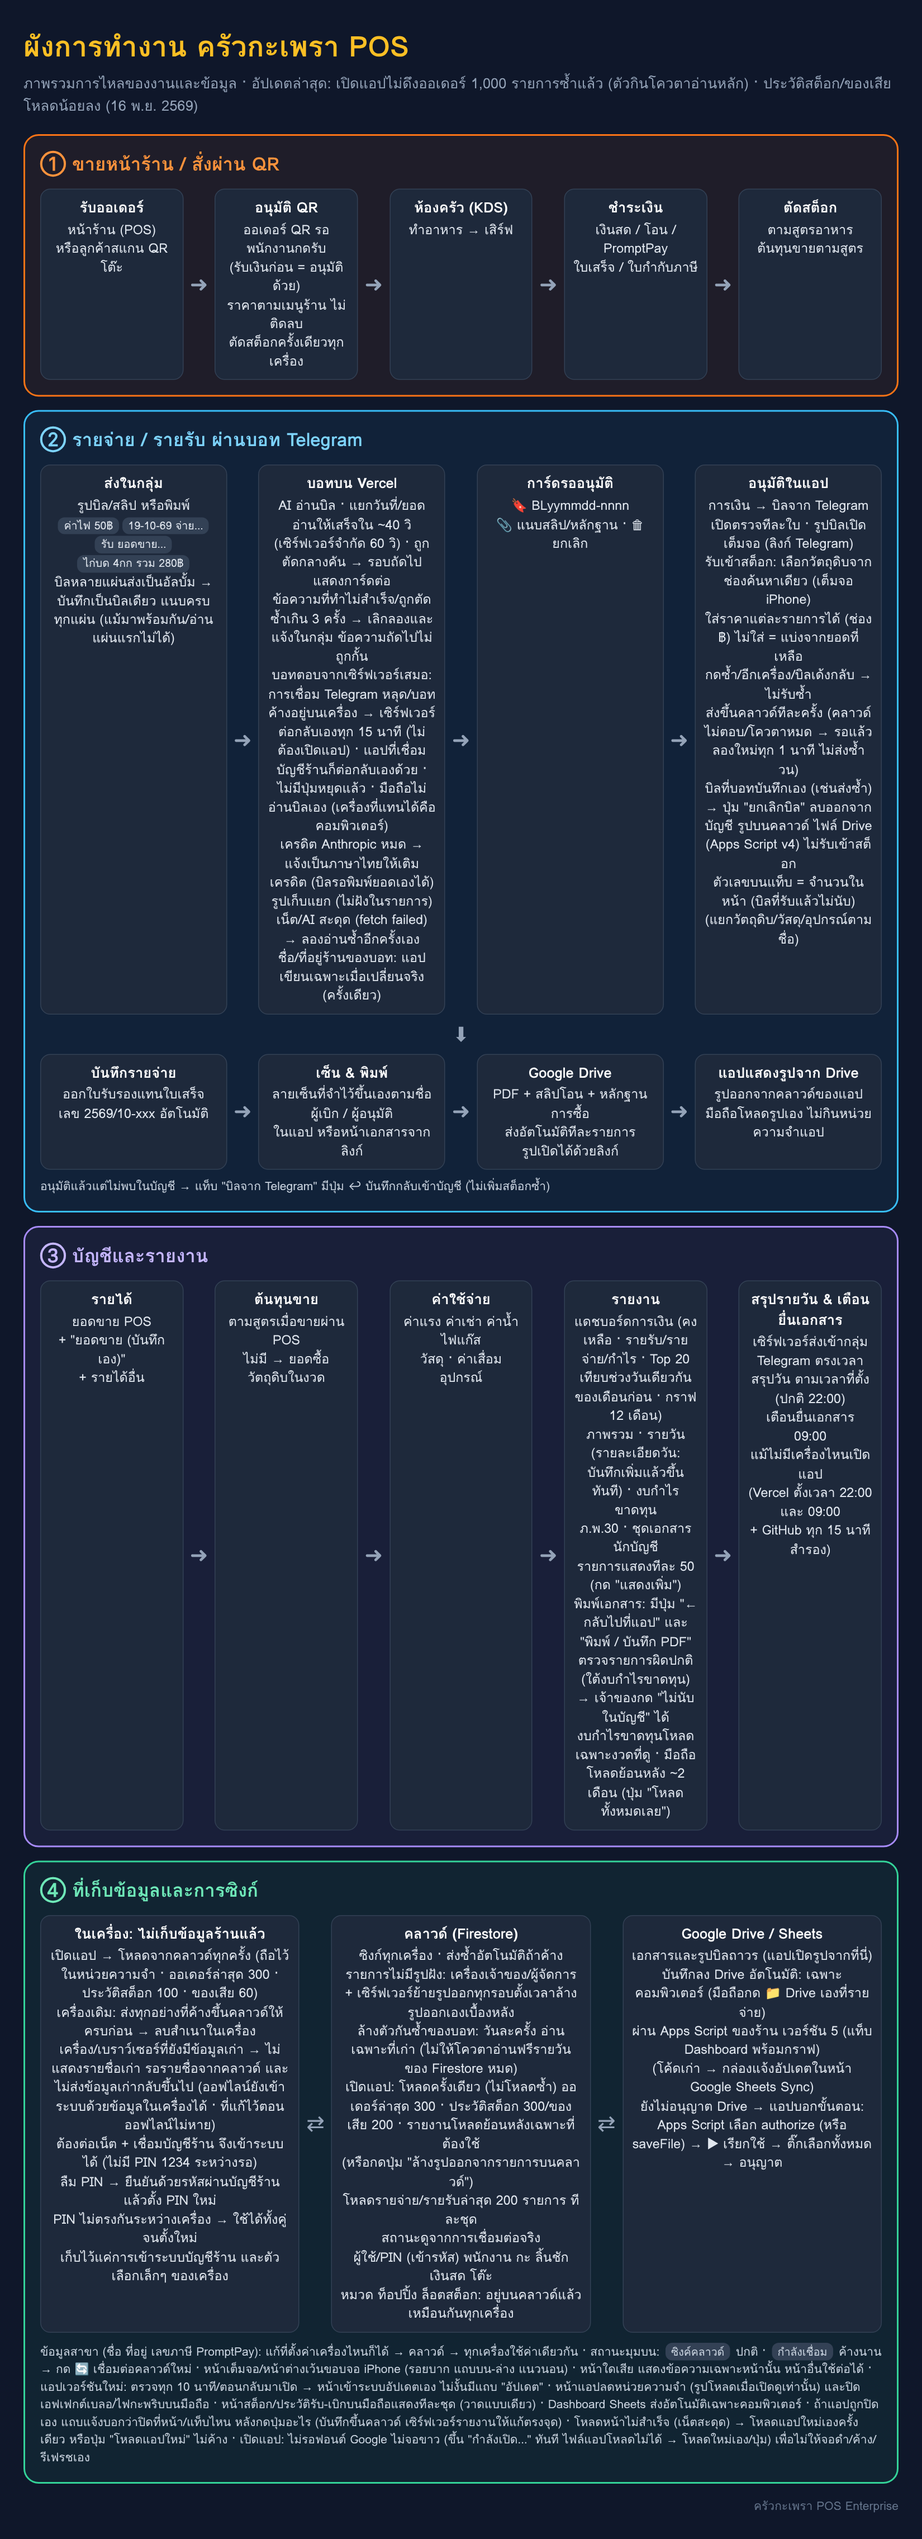
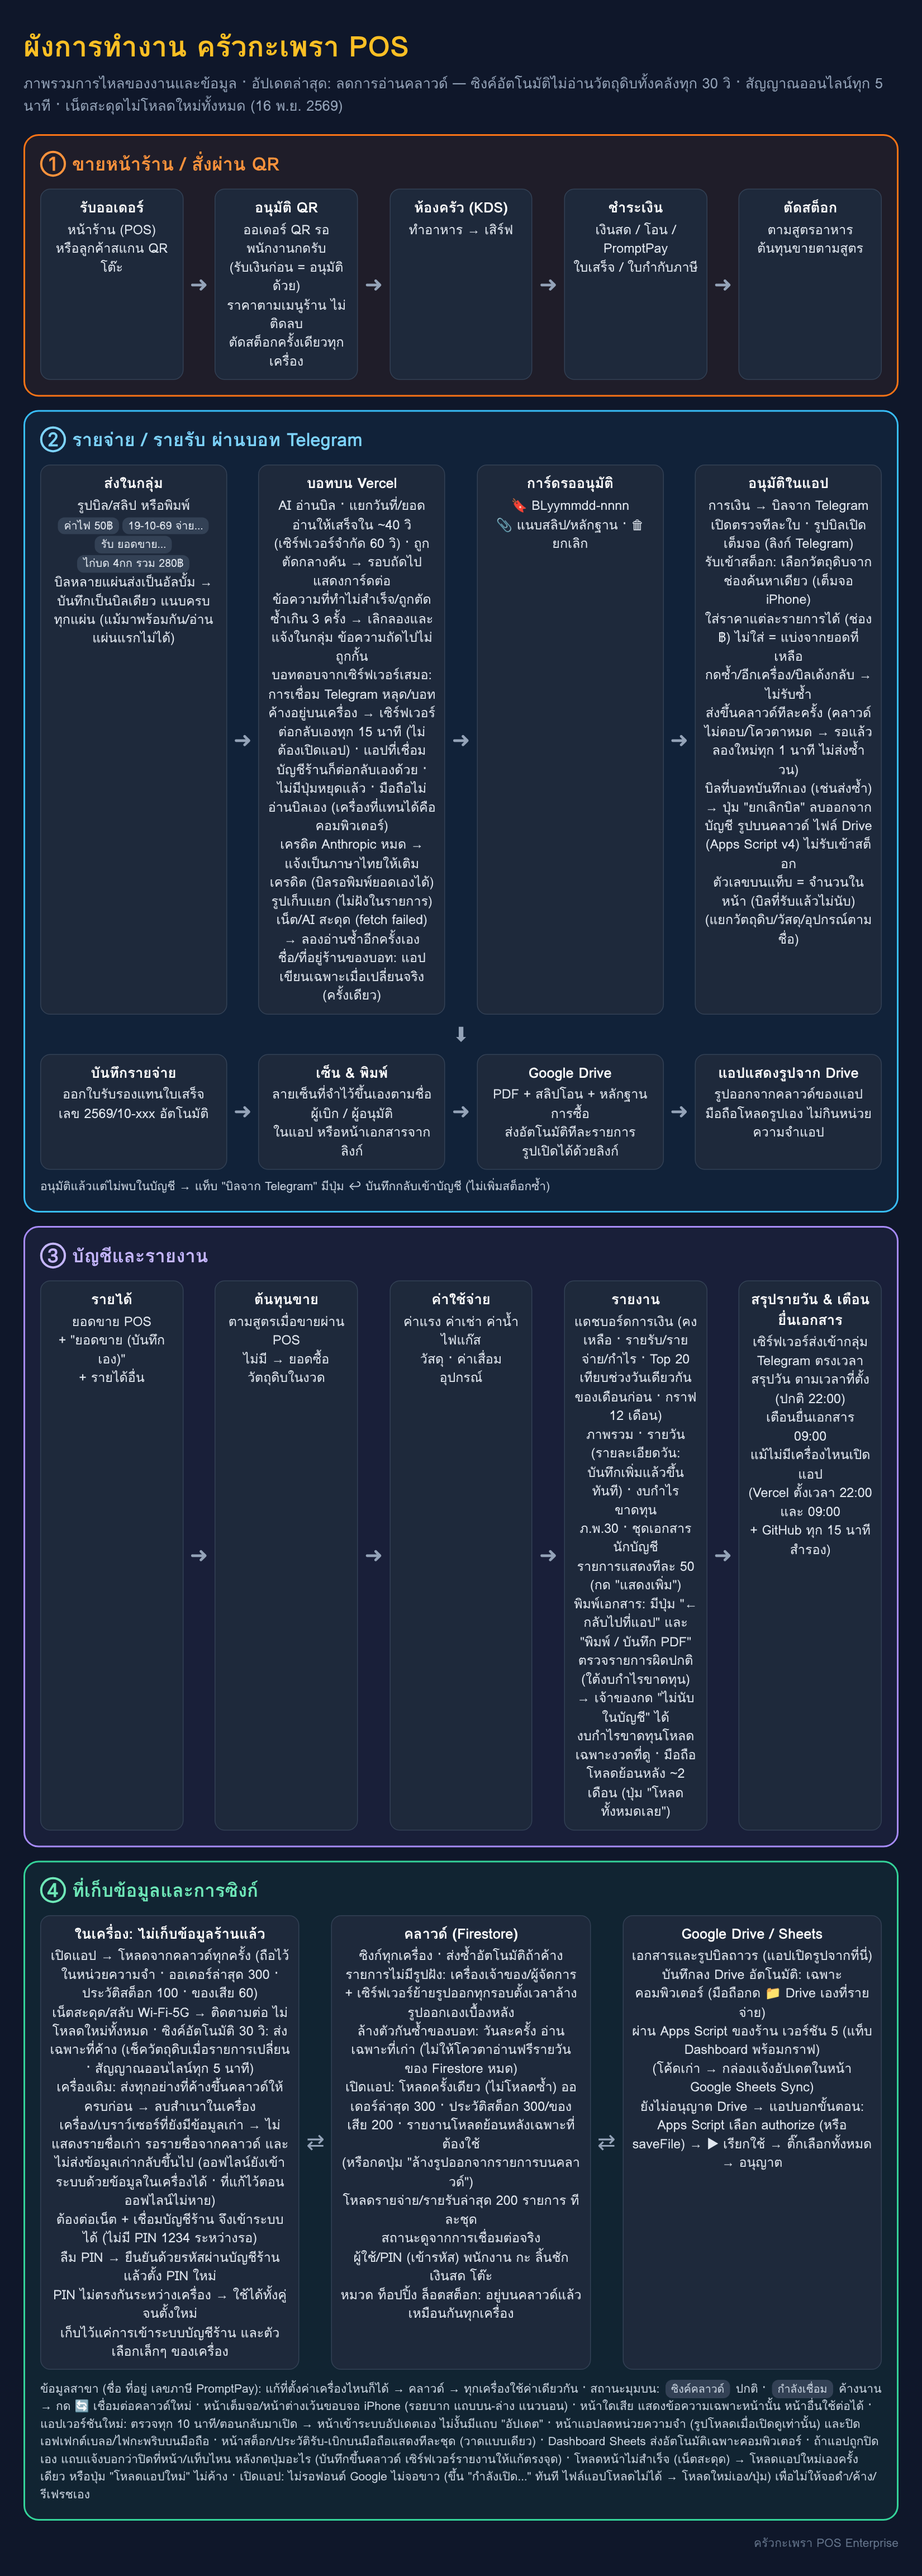
Cut the app's cloud reads: no inventory listing every 30 s, listeners kept through network drops
- The automatic sync (every 30 seconds on every open device) read every
  ingredient document of the branch to find ones the cloud lacked:
  thousands of billed reads an hour per device, the largest share of
  the free daily quota. It now checks only when this device's list of
  ingredients changed.
- When that listing failed (e.g. the quota used up) every ingredient
  was written with this device's stock over the shared levels; nothing
  is written then.
- The branch heartbeat in that sync goes at most every 5 minutes.
- The cloud listeners (orders, expenses, incomes, menu, stock, the
  shared lists) were stopped and started on every network drop, each
  start reading all of them again; they now stay until offline mode is
  chosen.

Claude-Session: https://claude.ai/code/session_01Gq3UvYW4wv3hsVCXoh5wxy

diff --git a/docs/workflow/flow.html b/docs/workflow/flow.html
@@ -17,7 +17,7 @@ h1{margin:0 0 4px;font-size:34px;color:#fbbf24}.sub{color:#94a3b8;font-size:17px
 .foot{color:#64748b;font-size:14px;margin-top:6px;text-align:right}
 </style></head><body>
 <h1>ผังการทำงาน ครัวกะเพรา POS</h1>
-<div class="sub">ภาพรวมการไหลของงานและข้อมูล · อัปเดตล่าสุด: เปิดแอปไม่ดึงออเดอร์ 1,000 รายการซ้ำแล้ว (ตัวกินโควตาอ่านหลัก) · ประวัติสต็อก/ของเสียโหลดน้อยลง (16 พ.ย. 2569)</div>
+<div class="sub">ภาพรวมการไหลของงานและข้อมูล · อัปเดตล่าสุด: ลดการอ่านคลาวด์ — ซิงค์อัตโนมัติไม่อ่านวัตถุดิบทั้งคลังทุก 30 วิ · สัญญาณออนไลน์ทุก 5 นาที · เน็ตสะดุดไม่โหลดใหม่ทั้งหมด (16 พ.ย. 2569)</div>
 
 <div class="lane pos"><h2>① ขายหน้าร้าน / สั่งผ่าน QR</h2>
 <div class="row">
@@ -56,7 +56,7 @@ h1{margin:0 0 4px;font-size:34px;color:#fbbf24}.sub{color:#94a3b8;font-size:17px
 
 <div class="lane data"><h2>④ ที่เก็บข้อมูลและการซิงก์</h2>
 <div class="row">
-<div class="box"><b>ในเครื่อง: ไม่เก็บข้อมูลร้านแล้ว</b>เปิดแอป → โหลดจากคลาวด์ทุกครั้ง (ถือไว้ในหน่วยความจำ · ออเดอร์ล่าสุด 300 · ประวัติสต็อก 100 · ของเสีย 60)<br>เครื่องเดิม: ส่งทุกอย่างที่ค้างขึ้นคลาวด์ให้ครบก่อน → ลบสำเนาในเครื่อง<br>เครื่อง/เบราว์เซอร์ที่ยังมีข้อมูลเก่า → ไม่แสดงรายชื่อเก่า รอรายชื่อจากคลาวด์ และไม่ส่งข้อมูลเก่ากลับขึ้นไป (ออฟไลน์ยังเข้าระบบด้วยข้อมูลในเครื่องได้ · ที่แก้ไว้ตอนออฟไลน์ไม่หาย)<br>ต้องต่อเน็ต + เชื่อมบัญชีร้าน จึงเข้าระบบได้ (ไม่มี PIN 1234 ระหว่างรอ)<br>ลืม PIN → ยืนยันด้วยรหัสผ่านบัญชีร้าน แล้วตั้ง PIN ใหม่<br>PIN ไม่ตรงกันระหว่างเครื่อง → ใช้ได้ทั้งคู่จนตั้งใหม่<br>เก็บไว้แค่การเข้าระบบบัญชีร้าน และตัวเลือกเล็กๆ ของเครื่อง</div><div class="ar">⇄</div>
+<div class="box"><b>ในเครื่อง: ไม่เก็บข้อมูลร้านแล้ว</b>เปิดแอป → โหลดจากคลาวด์ทุกครั้ง (ถือไว้ในหน่วยความจำ · ออเดอร์ล่าสุด 300 · ประวัติสต็อก 100 · ของเสีย 60)<br>เน็ตสะดุด/สลับ Wi-Fi-5G → ติดตามต่อ ไม่โหลดใหม่ทั้งหมด · ซิงค์อัตโนมัติ 30 วิ: ส่งเฉพาะที่ค้าง (เช็ควัตถุดิบเมื่อรายการเปลี่ยน · สัญญาณออนไลน์ทุก 5 นาที)<br>เครื่องเดิม: ส่งทุกอย่างที่ค้างขึ้นคลาวด์ให้ครบก่อน → ลบสำเนาในเครื่อง<br>เครื่อง/เบราว์เซอร์ที่ยังมีข้อมูลเก่า → ไม่แสดงรายชื่อเก่า รอรายชื่อจากคลาวด์ และไม่ส่งข้อมูลเก่ากลับขึ้นไป (ออฟไลน์ยังเข้าระบบด้วยข้อมูลในเครื่องได้ · ที่แก้ไว้ตอนออฟไลน์ไม่หาย)<br>ต้องต่อเน็ต + เชื่อมบัญชีร้าน จึงเข้าระบบได้ (ไม่มี PIN 1234 ระหว่างรอ)<br>ลืม PIN → ยืนยันด้วยรหัสผ่านบัญชีร้าน แล้วตั้ง PIN ใหม่<br>PIN ไม่ตรงกันระหว่างเครื่อง → ใช้ได้ทั้งคู่จนตั้งใหม่<br>เก็บไว้แค่การเข้าระบบบัญชีร้าน และตัวเลือกเล็กๆ ของเครื่อง</div><div class="ar">⇄</div>
 <div class="box"><b>คลาวด์ (Firestore)</b>ซิงก์ทุกเครื่อง · ส่งซ้ำอัตโนมัติถ้าค้าง<br>รายการไม่มีรูปฝัง: เครื่องเจ้าของ/ผู้จัดการ<br>+ เซิร์ฟเวอร์ย้ายรูปออกทุกรอบตั้งเวลาล้างรูปออกเองเบื้องหลัง<br>ล้างตัวกันซ้ำของบอท: วันละครั้ง อ่านเฉพาะที่เก่า (ไม่ให้โควตาอ่านฟรีรายวันของ Firestore หมด)<br>เปิดแอป: โหลดครั้งเดียว (ไม่โหลดซ้ำ) ออเดอร์ล่าสุด 300 · ประวัติสต็อก 300/ของเสีย 200 · รายงานโหลดย้อนหลังเฉพาะที่ต้องใช้<br>(หรือกดปุ่ม "ล้างรูปออกจากรายการบนคลาวด์")<br>โหลดรายจ่าย/รายรับล่าสุด 200 รายการ ทีละชุด<br>สถานะดูจากการเชื่อมต่อจริง<br>ผู้ใช้/PIN (เข้ารหัส) พนักงาน กะ ลิ้นชักเงินสด โต๊ะ<br>หมวด ท็อปปิ้ง ล็อตสต็อก: อยู่บนคลาวด์แล้ว เหมือนกันทุกเครื่อง</div><div class="ar">⇄</div>
 <div class="box"><b>Google Drive / Sheets</b>เอกสารและรูปบิลถาวร (แอปเปิดรูปจากที่นี่)<br>บันทึกลง Drive อัตโนมัติ: เฉพาะคอมพิวเตอร์ (มือถือกด 📁 Drive เองที่รายจ่าย)<br>ผ่าน Apps Script ของร้าน เวอร์ชัน 5 (แท็บ Dashboard พร้อมกราฟ)<br>(โค้ดเก่า → กล่องแจ้งอัปเดตในหน้า Google Sheets Sync)<br>ยังไม่อนุญาต Drive → แอปบอกขั้นตอน: Apps Script เลือก authorize (หรือ saveFile) → ▶ เรียกใช้ → ติ๊กเลือกทั้งหมด → อนุญาต</div>
 </div>

diff --git a/src/context/POSContext.tsx b/src/context/POSContext.tsx
@@ -1018,6 +1018,17 @@ export const POSProvider: React.FC<{ children: ReactNode }> = ({ children }) => 
   const [lastSyncedAt, setLastSyncedAt] = useState<string | null>(new Date().toISOString());
 
   const effectiveOffline = isOffline || forceOfflineMode;
+  /**
+   * The cloud lists are followed from the first time the device is online until "offline mode" is
+   * chosen. They were stopped and started again on every network drop (a phone switching between
+   * Wi-Fi and 5G), and each start read every list again (orders, expenses, menu, stock…): a large
+   * share of the daily read quota. Firestore keeps them and catches up by itself after a drop
+   */
+  const [wasOnline, setWasOnline] = useState<boolean>(navigator.onLine);
+  useEffect(() => {
+    if (!isOffline) setWasOnline(true);
+  }, [isOffline]);
+  const listenOffline = forceOfflineMode || !wasOnline;
   const pendingOfflineCount = orders.filter(o => o.isOfflineOrder && !o.isSynced).length;
 
   // Firebase Cloud & Multi-Branch Synchronization State
@@ -1139,7 +1150,7 @@ export const POSProvider: React.FC<{ children: ReactNode }> = ({ children }) => 
 
   // Real-time listener for central multi-branch statuses
   useEffect(() => {
-    if (!isFirebaseAvailable() || effectiveOffline) return;
+    if (!isFirebaseAvailable() || listenOffline) return;
 
     const unsubscribe = subscribeToCentralBranches(
       (branchesMap) => {
@@ -1153,7 +1164,7 @@ export const POSProvider: React.FC<{ children: ReactNode }> = ({ children }) => 
     return () => {
       unsubscribe();
     };
-  }, [effectiveOffline]);
+  }, [listenOffline]);
 
   const deletedMenuIdsRef = useRef(deletedMenuItemIds);
   deletedMenuIdsRef.current = deletedMenuItemIds;
@@ -1161,7 +1172,7 @@ export const POSProvider: React.FC<{ children: ReactNode }> = ({ children }) => 
   deletedIngredientIdsRef.current = deletedIngredientIds;
   // Real-time listener for central orders, expenses, incomes, menu, inventory, and deletions from Firestore
   useEffect(() => {
-    if (!isStorageLoaded || !isFirebaseAvailable() || effectiveOffline) return;
+    if (!isStorageLoaded || !isFirebaseAvailable() || listenOffline) return;
 
     // Once a day per device (it reads 500 orders)
     try {
@@ -1600,7 +1611,7 @@ export const POSProvider: React.FC<{ children: ReactNode }> = ({ children }) => 
     // (The deleted ids are read when cloud lists arrive, not followed: a change to them restarted
     // every listener here, so each app start downloaded the orders, expenses and stock twice and
     // used up the project's free daily reads)
-  }, [isStorageLoaded, effectiveOffline, currentBranch?.id]);
+  }, [isStorageLoaded, listenOffline, currentBranch?.id]);
 
   // The shop's own lists (people and PINs, staff, shifts, cash drawer, tables, categories,
   // toppings, stock lots…) in the cloud too, the same on every device: before, they lived only on
@@ -1616,7 +1627,7 @@ export const POSProvider: React.FC<{ children: ReactNode }> = ({ children }) => 
   // Followed live: a device that removes its copy while this one is open is heard at once
   const [metaWritten, setMetaWritten] = useState(false);
   useEffect(() => {
-    if (!isStorageLoaded || effectiveOffline || !mirrorBranch || !isFirebaseAvailable()) return;
+    if (!isStorageLoaded || listenOffline || !mirrorBranch || !isFirebaseAvailable()) return;
     return subscribeToBranchDoc(mirrorBranch, 'state_meta', (data, fromCache) => {
       if (data?.cloudOnly) {
         setCloudOnly(true);
@@ -1627,10 +1638,10 @@ export const POSProvider: React.FC<{ children: ReactNode }> = ({ children }) => 
         else setCloudOnly(false);
       }
     });
-  }, [isStorageLoaded, effectiveOffline, mirrorBranch, retiredStart, firebaseSyncState.status]);
+  }, [isStorageLoaded, listenOffline, mirrorBranch, retiredStart, firebaseSyncState.status]);
   // The lists are followed once the answer is known: without it the cloud cannot be read either
   // (offline, or the shop account not signed in), and the subscription brings it as soon as it can
-  const mirrorOn = isStorageLoaded && !effectiveOffline && isFirebaseAvailable() && cloudOnly !== null;
+  const mirrorOn = isStorageLoaded && !listenOffline && isFirebaseAvailable() && cloudOnly !== null;
   const recentMonths = useMemo(() => {
     const now = new Date();
     return Array.from({ length: 13 }, (_, i) => {
@@ -1751,6 +1762,26 @@ export const POSProvider: React.FC<{ children: ReactNode }> = ({ children }) => 
 
   // Timers and listeners call the latest version (their own copy would hold stale data)
   const syncOfflineQueueRef = useRef<() => Promise<void>>(async () => undefined);
+  /**
+   * Ingredients the cloud does not have yet, sent: checked only when this device's list of
+   * ingredients changed. It read every ingredient document of the branch on each automatic sync
+   * (every 30 seconds on every open device): thousands of billed reads an hour, the main reason
+   * the free daily quota ran out
+   */
+  const inventoryCheckedRef = useRef('');
+  const sendMissingIngredients = async () => {
+    const key = `${currentBranch.id}|${ingredients.map(i => i.id).sort().join(',')}`;
+    if (inventoryCheckedRef.current === key) return;
+    if (await syncInventoryToFirestore(ingredients, currentBranch, { withStock: false, onlyMissing: true })) inventoryCheckedRef.current = key;
+  };
+  /** The branch's heartbeat at most every 5 minutes (two billed writes each; it went every 30 seconds) */
+  const lastPingRef = useRef(0);
+  const pingBranchRarely = async (): Promise<boolean> => {
+    if (Date.now() - lastPingRef.current < 5 * 60_000) return true;
+    const ok = await pingBranchToFirestore(currentBranch.id);
+    if (ok) lastPingRef.current = Date.now();
+    return ok;
+  };
   const syncOfflineQueue = async () => {
     const nowIso = new Date().toISOString();
     const pendingOrders = orders.filter(o => o.isOfflineOrder && !o.isSynced);
@@ -1761,8 +1792,8 @@ export const POSProvider: React.FC<{ children: ReactNode }> = ({ children }) => 
         setFirebaseSyncState(prev => (cloudLiveRef.current ? prev : { ...prev, status: 'syncing' }));
         await flushPendingStock();
         await flushPendingHistory();
-        await syncInventoryToFirestore(ingredients, currentBranch, { withStock: false, onlyMissing: true });
-        if (!(await pingBranchToFirestore(currentBranch.id))) {
+        await sendMissingIngredients();
+        if (!(await pingBranchRarely())) {
           setFirebaseSyncState(prev => ({ ...prev, status: 'error', errorMessage: 'บันทึกขึ้นคลาวด์ไม่ได้ ตรวจสอบการเชื่อมบัญชีร้าน' }));
           return;
         }
@@ -1794,7 +1825,7 @@ export const POSProvider: React.FC<{ children: ReactNode }> = ({ children }) => 
         batchResult.syncedIds.forEach(id => uploaded.add(id));
         await flushPendingStock();
         await flushPendingHistory();
-        await syncInventoryToFirestore(ingredients, currentBranch, { withStock: false, onlyMissing: true });
+        await sendMissingIngredients();
         console.log(`[Firebase Service] ☁ Synced ${batchResult.success} orders and inventory to Firestore.`);
       } catch (err) {
         console.error('[Firebase Service] ❌ Batch sync failed:', err);

diff --git a/src/services/firebaseService.ts b/src/services/firebaseService.ts
@@ -482,8 +482,11 @@ export async function syncInventoryToFirestore(
       try {
         const snap = await getDocs(collection(dbInstance, 'branches', branch.id, 'inventory'));
         knownIds = new Set(snap.docs.map(d => d.id));
-      } catch {
-        knownIds = new Set();
+      } catch (err) {
+        // Not known which the cloud has (e.g. the daily quota used up): nothing is written. Taking
+        // it as "none" wrote every ingredient with this device's stock over the shared levels
+        console.warn('[Firebase Service] Could not read the branch inventory; nothing sent:', err);
+        return false;
       }
     }
 
